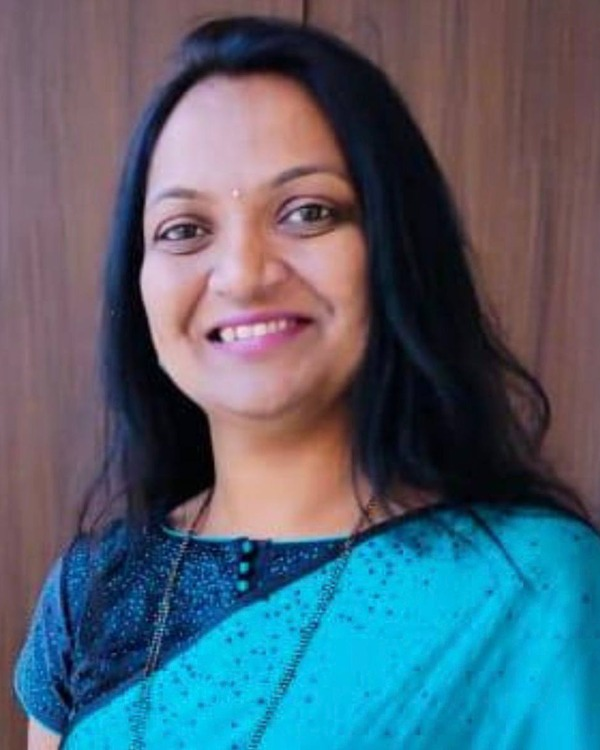
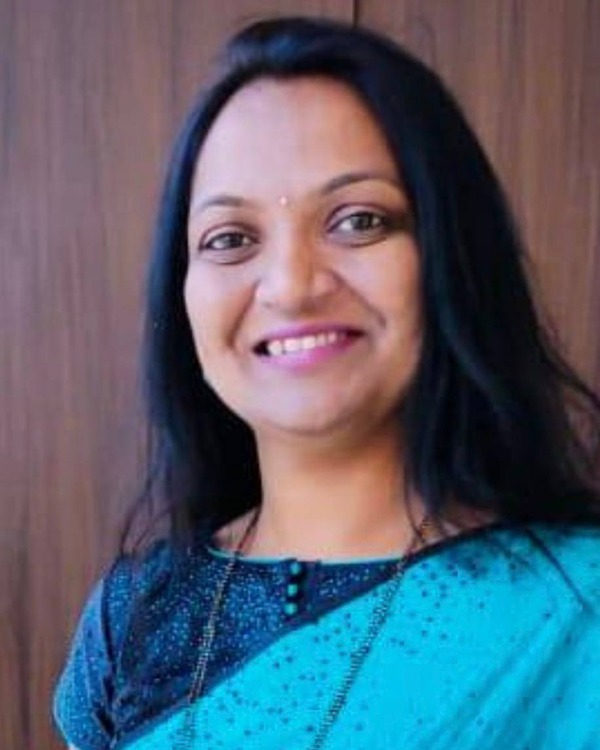
paper: add Singh & Das authors, refresh author bios and photos
- Add Ashay Kumar Singh and Arghadeep Das to \author{} byline,
  affiliation footnotes, and ORCID/email lists in both paper-access
  and paper-build; add their biography entries.
- Remove duplicated leading name from each bio body (IEEEbiography
  already prints the name in bold as the sentence lead-in).
- Reorder bios so Shwetambari precedes Singh and Das.
- Re-crop dcosta/talupuri/chiwhane photos face-aligned to remove
  headroom; add singh and das photos. All 600x750 (0.800 AR).

diff --git a/paper/ieee-paper/paper-access.tex b/paper/ieee-paper/paper-access.tex
@@ -48,9 +48,11 @@
 %   \uppercase{Bosco Chanam}\authorrefmark{1}~\orcidlink{0000-0000-0000-0000}
 \author{\uppercase{Bosco Chanam}\authorrefmark{1}~\orcidlink{0009-0009-2527-0967},
 \uppercase{Chris Dcosta}\authorrefmark{1}~\orcidlink{0009-0007-7295-0573},
-\uppercase{Pranavesh Kumar Talupuri}\authorrefmark{2}~\orcidlink{0009-0005-8974-2012}, and
-\uppercase{Shwetambari Chiwhane}\authorrefmark{1}~\orcidlink{0000-0002-3534-9654}}
-\address[1]{Symbiosis Institute of Technology, Pune 412115, India (e-mail: [email redacted]; [email redacted]; [email redacted])}
+\uppercase{Pranavesh Kumar Talupuri}\authorrefmark{2}~\orcidlink{0009-0005-8974-2012},
+\uppercase{Shwetambari Chiwhane}\authorrefmark{1}~\orcidlink{0000-0002-3534-9654},
+\uppercase{Ashay Kumar Singh}\authorrefmark{1}~\orcidlink{0009-0004-9105-7383},
+and \uppercase{Arghadeep Das}\authorrefmark{1}~\orcidlink{0009-0000-9207-7694}}
+\address[1]{Symbiosis Institute of Technology, Pune 412115, India (e-mail: [email redacted]; [email redacted]; [email redacted]; [email redacted]; [email redacted])}
 \address[2]{Department of Computer Science, University of Southern California, Los Angeles, CA 90089 USA (e-mail: [email redacted])}
 \tfootnote{This work received no external funding.}
 
@@ -384,19 +386,19 @@ on the CGHD-1152 dataset~\cite{bayer2021cghd}.
 \makeatother
 \raggedbottom
 \begin{IEEEbiography}[{\includegraphics[width=1in,height=1.25in,clip,keepaspectratio]{figures/authors/chanam.jpg}}]{Bosco Chanam}
-Bosco Chanam received the B.Tech.\ degree in Computer Science and Engineering from the Symbiosis Institute of Technology (SIT), Pune, India. He is currently an AI/ML Engineer at the AI Incubation Centre at Bharat Forge (Kalyani Group), Pune, India. His professional and research interests include computer vision, edge AI optimization, and robotics. Mr.~Chanam has co-authored research in natural language processing benchmarking, published in the \textit{International Journal of Fuzzy Logic and Intelligent Systems}.
+received the B.Tech.\ degree in Computer Science and Engineering from the Symbiosis Institute of Technology (SIT), Pune, India. He is currently an AI/ML Engineer at the AI Incubation Centre at Bharat Forge (Kalyani Group), Pune, India. His professional and research interests include computer vision, edge AI optimization, and robotics. Mr.~Chanam has co-authored research in natural language processing benchmarking, published in the \textit{International Journal of Fuzzy Logic and Intelligent Systems}.
 \end{IEEEbiography}
 
 \begin{IEEEbiography}[{\includegraphics[width=1in,height=1.25in,clip,keepaspectratio]{figures/authors/dcosta.jpg}}]{Chris Dcosta}
-Chris Dcosta received the B.Tech.\ degree in Computer Science and Engineering with Honors in Artificial Intelligence and Machine Learning from the Symbiosis Institute of Technology (SIT), Pune, India. His research interests include computer vision, machine learning, natural language processing, and deep learning.
+received the B.Tech.\ degree in Computer Science and Engineering with Honors in Artificial Intelligence and Machine Learning from the Symbiosis Institute of Technology (SIT), Pune, India. His research interests include computer vision, machine learning, natural language processing, and deep learning.
 \end{IEEEbiography}
 
 \begin{IEEEbiography}[{\includegraphics[width=1in,height=1.25in,clip,keepaspectratio]{figures/authors/talupuri.jpg}}]{Pranavesh Kumar Talupuri}
-Pranavesh Talupuri is with the Department of Computer Science, University of Southern California, Los Angeles, CA, USA. His research interests include machine learning, deep learning, and computer vision.
+is with the Department of Computer Science, University of Southern California, Los Angeles, CA, USA. His research interests include machine learning, deep learning, and computer vision.
 \end{IEEEbiography}
 
 \begin{IEEEbiography}[{\includegraphics[width=1in,height=1.25in,clip,keepaspectratio]{figures/authors/chiwhane.jpg}}]{Shwetambari Chiwhane}
-Dr. Shwetambari Chiwhane holds a B.E. in Computer Science and Engineering from Sant Gadge
+holds a B.E. in Computer Science and Engineering from Sant Gadge
 Baba Amravati University, Amravati, India, and an M.Tech. in Computer Science and Engineering
 from Dr. Babasaheb Technological University, Lonere, India. She earned her PhD in Computer
 Engineering specializing from Bharath Institute of Higher Education and Research, Chennai,
@@ -415,6 +417,14 @@ Recognized as a PhD guide in Symbiosis International (Deemed University), Presen
 guiding 4 research scholar and she has guided more than 100 undergraduate students for their
 research endeavors. Her current research interests revolve around Image Processing, Computer
 Vision, Artificial Intelligence and Machine Learning.
+\end{IEEEbiography}
+
+\begin{IEEEbiography}[{\includegraphics[width=1in,height=1.25in,clip,keepaspectratio]{figures/authors/singh.jpg}}]{Ashay Kumar Singh}
+received the B.Tech.\ degree in Computer Science and Engineering from the Symbiosis Institute of Technology (SIT), Pune, India. His research interests lie in machine learning, computer vision, Retrieval-Augmented Generation (RAG), optical character recognition (OCR), and multimodal AI.
+\end{IEEEbiography}
+
+\begin{IEEEbiography}[{\includegraphics[width=1in,height=1.25in,clip,keepaspectratio]{figures/authors/das.jpg}}]{Arghadeep Das}
+received the B.Tech.\ degree in Computer Science and Engineering from the Symbiosis Institute of Technology (SIT), Pune, India. His research interests include reinforcement learning, world models, computer vision, 3D rendering, agentic AI, embodied AI, robotics, and machine learning.
 \end{IEEEbiography}
 
 \EOD

diff --git a/paper/ieee-paper/paper-build.tex b/paper/ieee-paper/paper-build.tex
@@ -29,8 +29,8 @@
 
 % ORCID: add each author's ORCID before submission, e.g.
 %   \uppercase{Bosco Chanam}\authorrefmark{1}~\orcidlink{0000-0000-0000-0000}
-\author{Bosco Chanam, Chris Dcosta, Pranavesh Kumar Talupuri, and Shwetambari A. Chiwhane%
-\thanks{B. Chanam, C. Dcosta, and S. Chiwhane are with the Symbiosis Institute of Technology, Pune 412115, India.}%
+\author{Bosco Chanam, Chris Dcosta, Pranavesh Kumar Talupuri, Shwetambari A. Chiwhane, Ashay Kumar Singh, and Arghadeep Das%
+\thanks{B. Chanam, C. Dcosta, S. Chiwhane, A. K. Singh, and A. Das are with the Symbiosis Institute of Technology, Pune 412115, India.}%
 \thanks{P. Talupuri is with the Department of Computer Science, University of Southern California, Los Angeles, CA 90089 USA.}%
 \thanks{Corresponding author: Bosco Chanam (e-mail: [email redacted]).}%
 \thanks{This work received no external funding.}}
@@ -357,19 +357,27 @@ on the CGHD-1152 dataset~\cite{bayer2021cghd}.
 \makeatother
 \raggedbottom
 \begin{IEEEbiography}[{\includegraphics[width=1in,height=1.25in,clip,keepaspectratio]{figures/authors/chanam.jpg}}]{Bosco Chanam}
-Bosco Chanam received the B.Tech.\ degree in Computer Science and Engineering from the Symbiosis Institute of Technology (SIT), Pune, India. He is currently an AI/ML Engineer at the AI Incubation Centre at Bharat Forge (Kalyani Group), Pune, India. His professional and research interests include computer vision, edge AI optimization, and robotics. Mr.~Chanam has co-authored research in natural language processing benchmarking, published in the \textit{International Journal of Fuzzy Logic and Intelligent Systems}.
+received the B.Tech.\ degree in Computer Science and Engineering from the Symbiosis Institute of Technology (SIT), Pune, India. He is currently an AI/ML Engineer at the AI Incubation Centre at Bharat Forge (Kalyani Group), Pune, India. His professional and research interests include computer vision, edge AI optimization, and robotics. Mr.~Chanam has co-authored research in natural language processing benchmarking, published in the \textit{International Journal of Fuzzy Logic and Intelligent Systems}.
 \end{IEEEbiography}
 
 \begin{IEEEbiography}[{\includegraphics[width=1in,height=1.25in,clip,keepaspectratio]{figures/authors/dcosta.jpg}}]{Chris Dcosta}
-Chris Dcosta is with the Symbiosis Institute of Technology, Pune, India. His research interests include circuit digitization, image processing, and deep learning.
+is with the Symbiosis Institute of Technology, Pune, India. His research interests include circuit digitization, image processing, and deep learning.
 \end{IEEEbiography}
 
 \begin{IEEEbiography}[{\includegraphics[width=1in,height=1.25in,clip,keepaspectratio]{figures/authors/talupuri.jpg}}]{Pranavesh Kumar Talupuri}
-Pranavesh Talupuri is with the Department of Computer Science, University of Southern California, Los Angeles, CA, USA. His research interests include machine learning, deep learning, and computer vision.
+is with the Department of Computer Science, University of Southern California, Los Angeles, CA, USA. His research interests include machine learning, deep learning, and computer vision.
 \end{IEEEbiography}
 
 \begin{IEEEbiography}[{\includegraphics[width=1in,height=1.25in,clip,keepaspectratio]{figures/authors/chiwhane.jpg}}]{Shwetambari A. Chiwhane}
-Shwetambari A. Chiwhane is with the Symbiosis Institute of Technology, Pune, India. Her research interests include machine learning, natural language processing, and data science.
+is with the Symbiosis Institute of Technology, Pune, India. Her research interests include machine learning, natural language processing, and data science.
+\end{IEEEbiography}
+
+\begin{IEEEbiography}[{\includegraphics[width=1in,height=1.25in,clip,keepaspectratio]{figures/authors/singh.jpg}}]{Ashay Kumar Singh}
+received the B.Tech.\ degree in Computer Science and Engineering from the Symbiosis Institute of Technology (SIT), Pune, India. His research interests lie in machine learning, computer vision, Retrieval-Augmented Generation (RAG), optical character recognition (OCR), and multimodal AI.
+\end{IEEEbiography}
+
+\begin{IEEEbiography}[{\includegraphics[width=1in,height=1.25in,clip,keepaspectratio]{figures/authors/das.jpg}}]{Arghadeep Das}
+received the B.Tech.\ degree in Computer Science and Engineering from the Symbiosis Institute of Technology (SIT), Pune, India. His research interests include reinforcement learning, world models, computer vision, 3D rendering, agentic AI, embodied AI, robotics, and machine learning.
 \end{IEEEbiography}
 
 